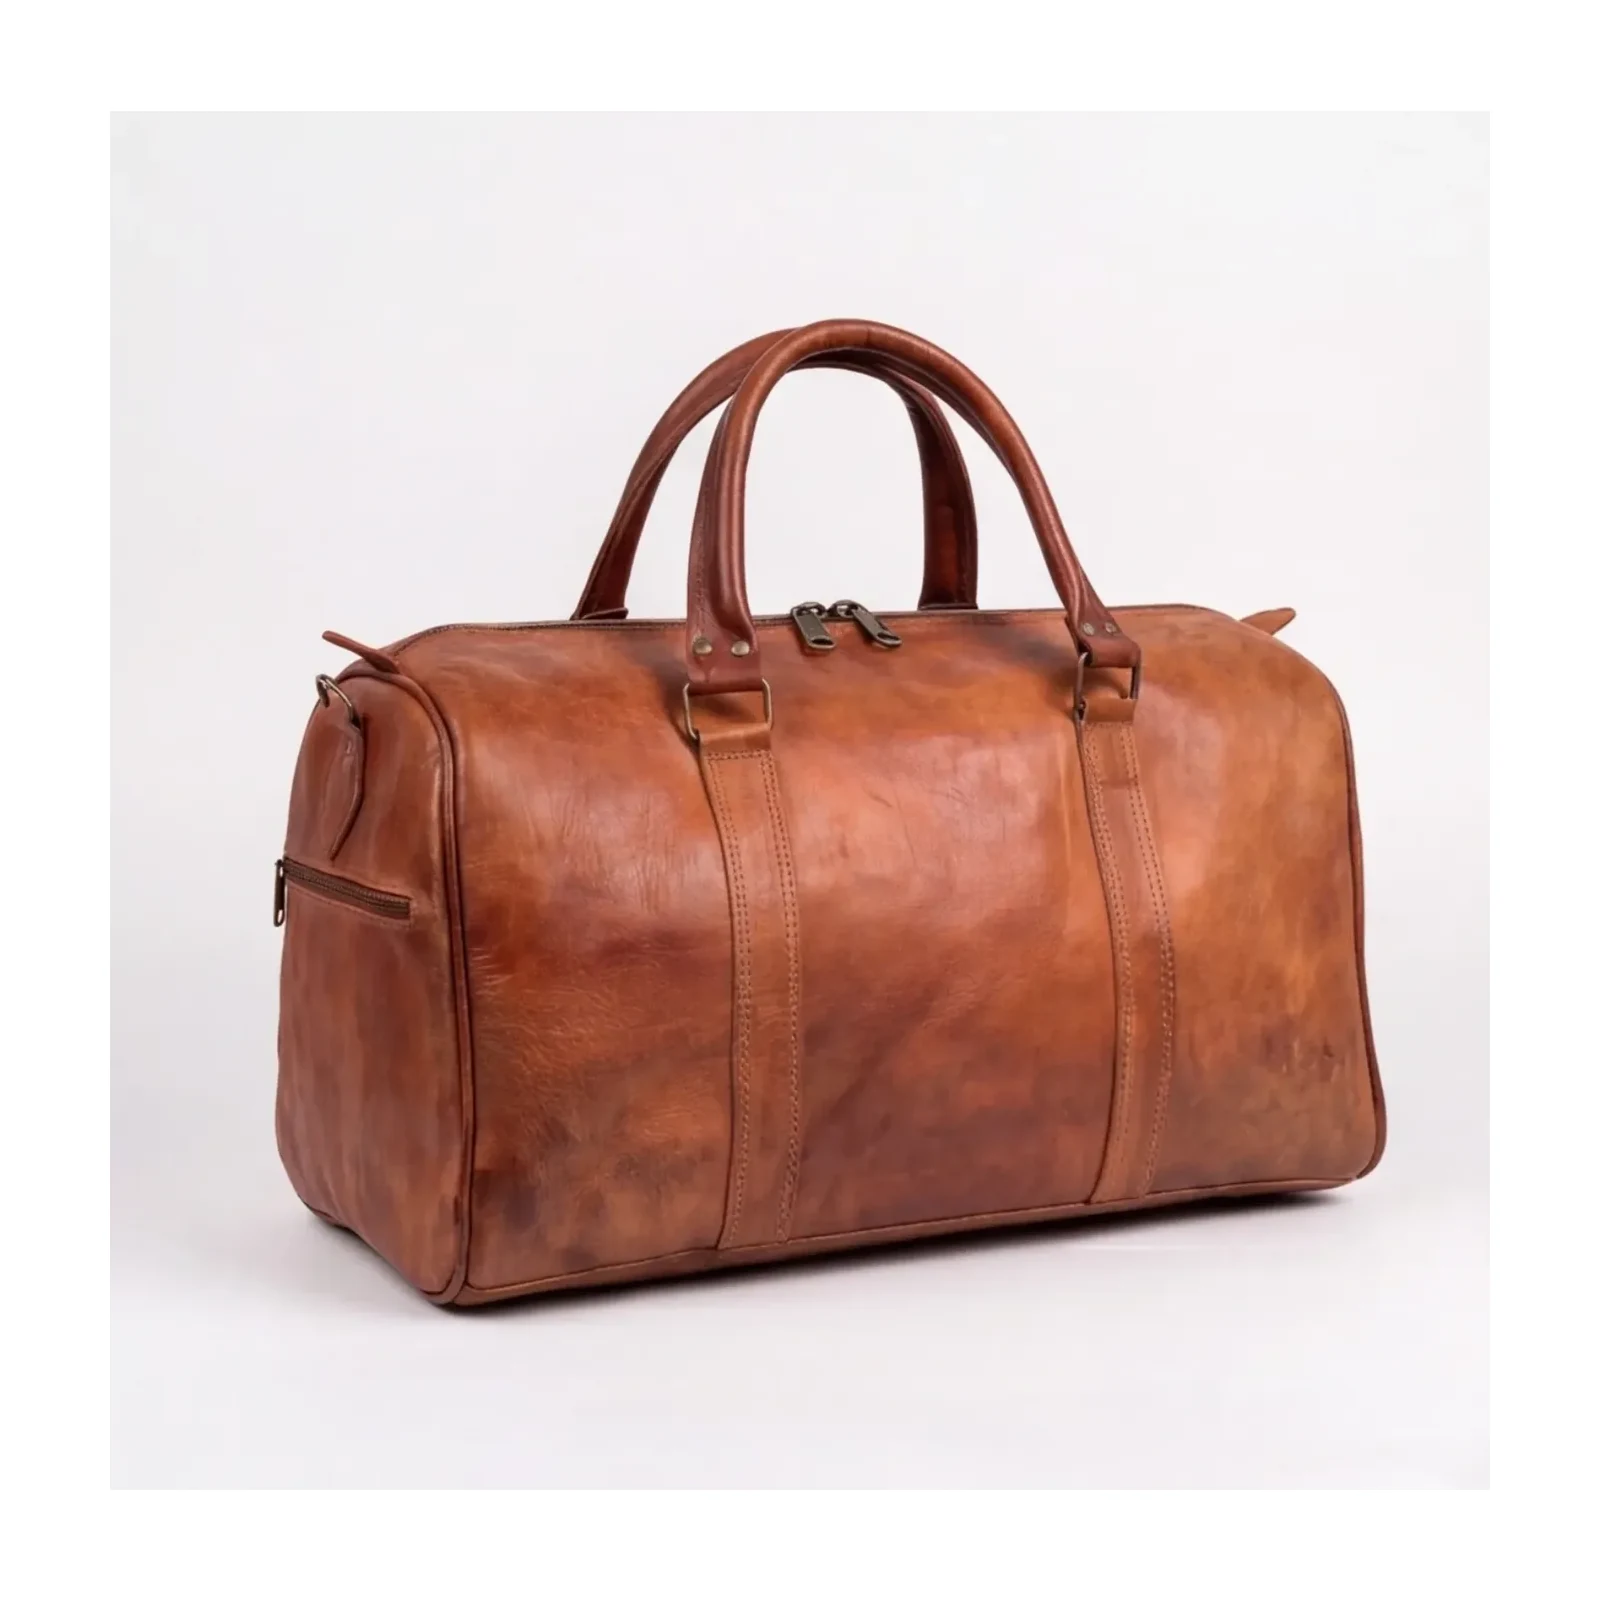
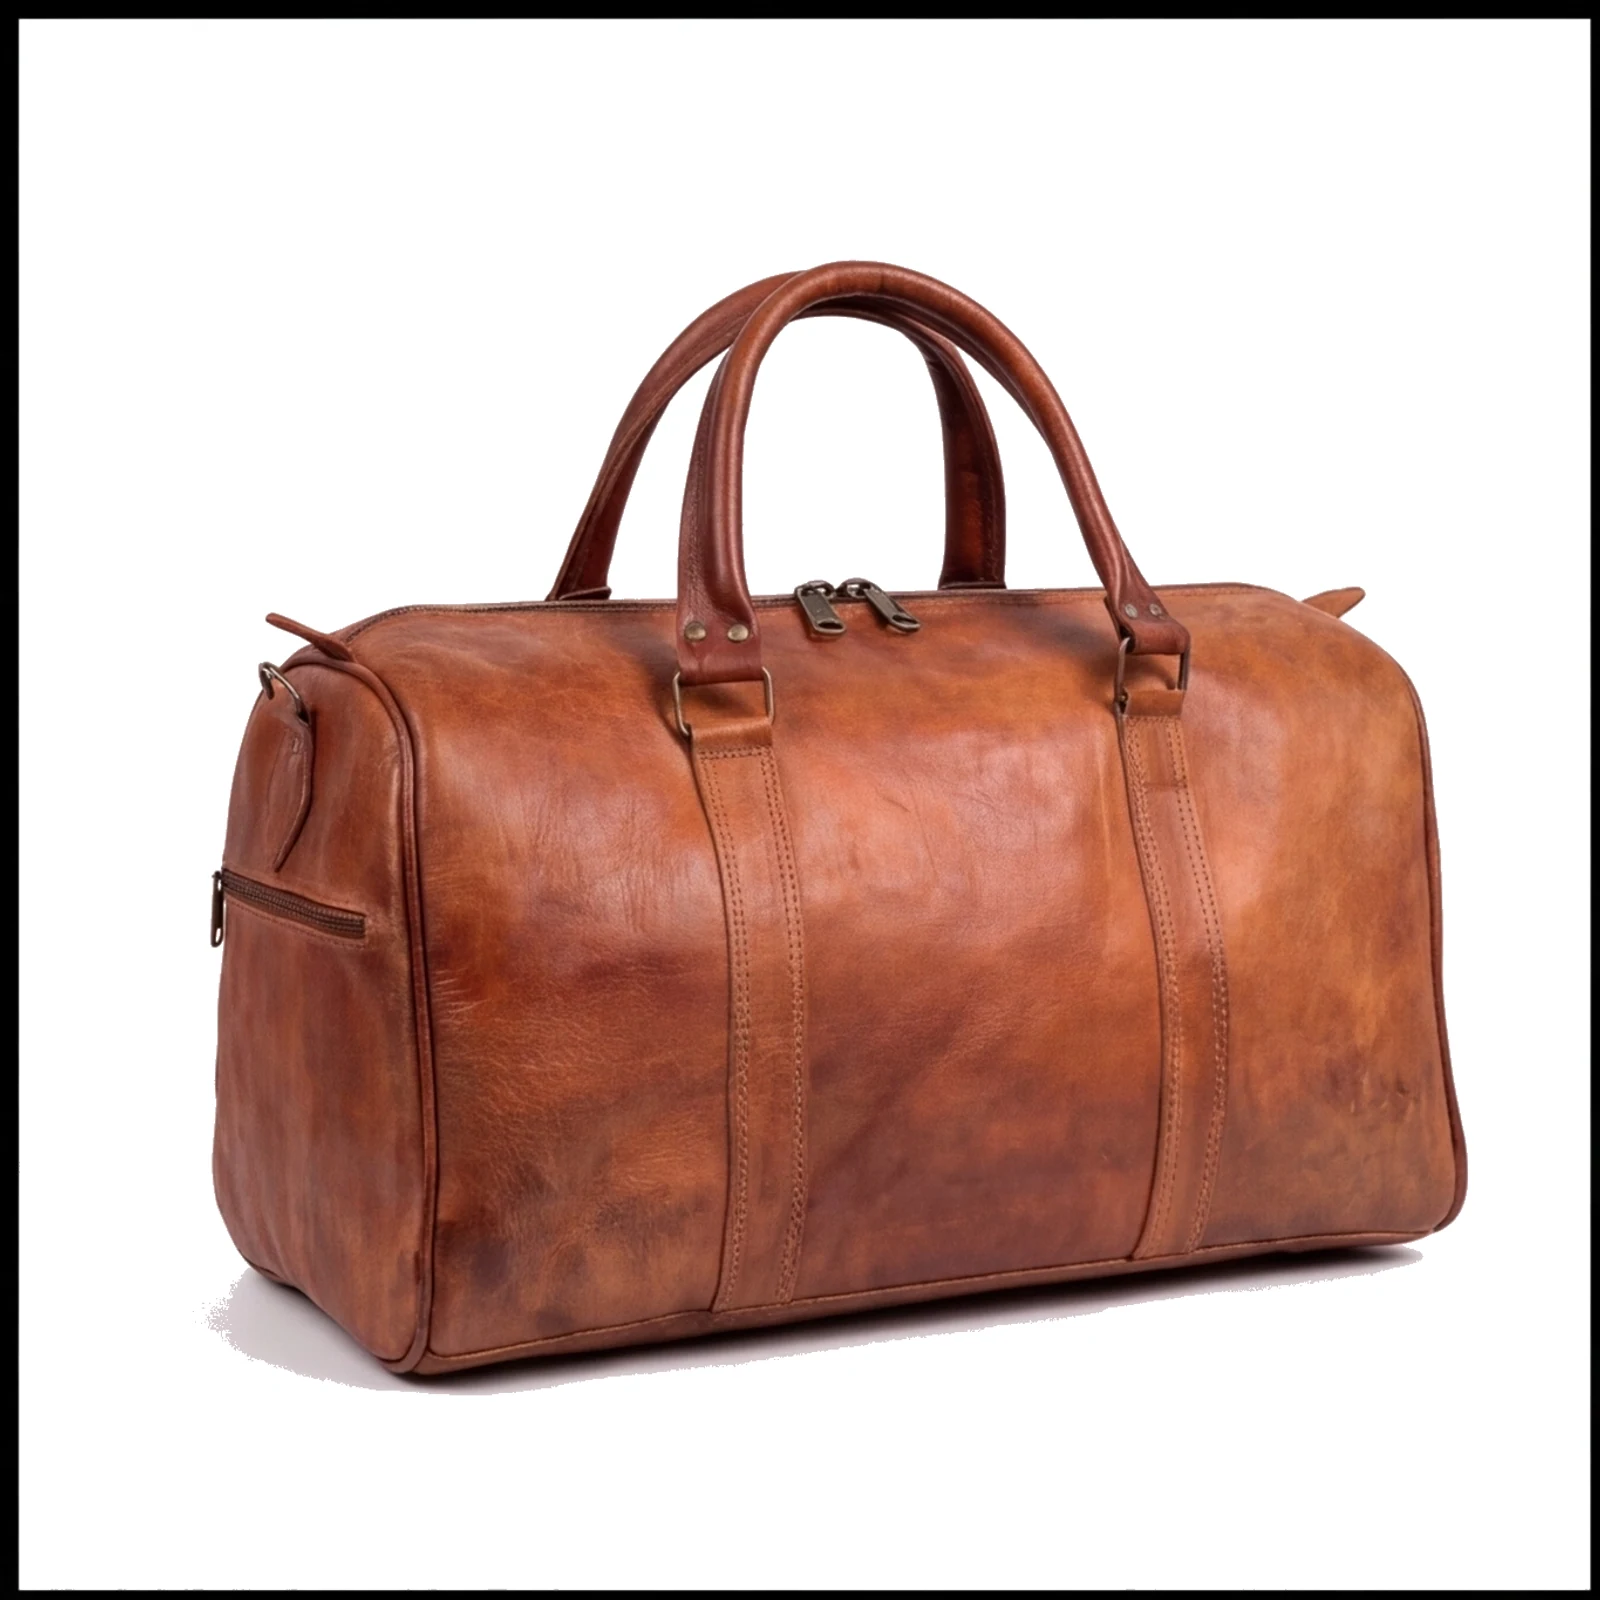
fix: clean launch product media and hide duplicate duffle

diff --git a/lib/products.ts b/lib/products.ts
@@ -246,10 +246,15 @@ export const STATIC_PRODUCTS: Product[] = [
     "slug": "classic-cognac-satchel",
     "price": 28500,
     "images": [
-      "https://xbtabpurfavngwmwtawc.supabase.co/storage/v1/object/public/products/drop-01/classic-cognac-satchel-pdp-white.webp",
-      "https://xbtabpurfavngwmwtawc.supabase.co/storage/v1/object/public/products/drop-01/classic-cognac-satchel-archive-1.webp",
-      "https://xbtabpurfavngwmwtawc.supabase.co/storage/v1/object/public/products/drop-01/classic-cognac-satchel-archive-2.webp",
-      "https://xbtabpurfavngwmwtawc.supabase.co/storage/v1/object/public/products/drop-01/classic-cognac-satchel-archive-3.webp"
+      "https://xbtabpurfavngwmwtawc.supabase.co/storage/v1/object/public/products/drop-02/classic-cognac-satchel-pdp-white.webp",
+      "https://xbtabpurfavngwmwtawc.supabase.co/storage/v1/object/public/products/drop-02/classic-cognac-satchel-pdp-02.webp",
+      "https://xbtabpurfavngwmwtawc.supabase.co/storage/v1/object/public/products/drop-02/classic-cognac-satchel-pdp-03.webp",
+      "https://xbtabpurfavngwmwtawc.supabase.co/storage/v1/object/public/products/drop-02/classic-cognac-satchel-pdp-04.webp",
+      "https://xbtabpurfavngwmwtawc.supabase.co/storage/v1/object/public/products/drop-02/classic-cognac-satchel-pdp-05.webp",
+      "https://xbtabpurfavngwmwtawc.supabase.co/storage/v1/object/public/products/drop-02/classic-cognac-satchel-pdp-06.webp",
+      "https://xbtabpurfavngwmwtawc.supabase.co/storage/v1/object/public/products/drop-02/classic-cognac-satchel-pdp-07.webp",
+      "https://xbtabpurfavngwmwtawc.supabase.co/storage/v1/object/public/products/drop-02/classic-cognac-satchel-pdp-08.webp",
+      "https://xbtabpurfavngwmwtawc.supabase.co/storage/v1/object/public/products/drop-02/classic-cognac-satchel-pdp-09.webp"
     ],
     "category": "Satchel",
     "status": "available",
@@ -582,8 +587,8 @@ export const STATIC_PRODUCTS: Product[] = [
       "https://xbtabpurfavngwmwtawc.supabase.co/storage/v1/object/public/products/drop-02/medina-duffle-pdp-02.webp"
     ],
     "category": "Duffle",
-    "status": "available",
-    "featured": true,
+    "status": "reserved",
+    "featured": false,
     "materials": [
       "Full-grain Moroccan leather",
       "Solid brass zipper and hardware",

diff --git a/lib/hidden-skus.ts b/lib/hidden-skus.ts
@@ -29,6 +29,9 @@ export const HIDDEN_SKUS: ReadonlySet<string> = new Set([
   "marrakech-tote-bordeaux",
   "marrakech-tote-noir",
   "medina-crossbody-tassel",
+  // Duplicate/scope suppression: the patterned leather + textile duffle belongs
+  // to the Kilim family, so keep this duplicate commercial SKU off launch.
+  "medina-duffle",
 
   // Group B — only macro shots in Storage, no canonical hero. Macros are
   // gallery-only per Turbo's convention; audit rejects them as images[0].

diff --git a/lib/landing-product-curation.ts b/lib/landing-product-curation.ts
@@ -6,7 +6,6 @@ const LANDING_FEATURED_ORDER = [
   "medina-saddlebag-tooled-cognac",
   "expedition-rolltop-noir",
   "atlas-kilim-duffle",
-  "medina-duffle",
   "marrakech-tote-cognac",
 ];
 
@@ -21,7 +20,6 @@ const LIST_IMAGE_OVERRIDES: Record<string, string> = {
   "medina-saddlebag-tooled-cognac": "/products/landing/medina-saddlebag-tooled-cognac-landing.webp",
   "expedition-rolltop-noir": "/products/landing/expedition-rolltop-noir-landing.webp",
   "atlas-kilim-duffle": "/products/landing/atlas-kilim-duffle-landing.webp",
-  "medina-duffle": "/products/landing/medina-duffle-landing.webp",
   "expedition-rolltop-cognac": "expedition-rolltop-cognac-pdp-05.webp",
 };
 

diff --git a/scripts/audit-launch-readiness.ts b/scripts/audit-launch-readiness.ts
@@ -62,7 +62,7 @@ async function main() {
   console.log("\n=== Remaining known non-blocking launch gaps ===");
   console.log("- Launch scope is bags and small leather goods only; no clothes/jackets.");
   console.log(
-    "- Media ops only: archive exact source folders for black-stitched-backpack and classic-cognac-satchel when found; no HF generation required for launch.",
+    "- Media ops only: archive the exact source folder for black-stitched-backpack when found; no HF generation required for launch.",
   );
 
   if (failures.length > 0) {

diff --git a/scripts/audit-public-site.ts b/scripts/audit-public-site.ts
@@ -21,6 +21,7 @@ const HIDDEN_PRODUCT_ROUTES = [
   "/products/marrakech-tote-bordeaux",
   "/products/marrakech-tote-noir",
   "/products/medina-crossbody-tassel",
+  "/products/medina-duffle",
   "/products/explorer-rolltop-noir",
 ];
 
@@ -39,6 +40,7 @@ const BAD_PUBLIC_PATTERNS = [
   /marrakech-tote-bordeaux/i,
   /marrakech-tote-noir/i,
   /medina-crossbody-tassel/i,
+  /medina-duffle/i,
   /explorer-rolltop-noir/i,
   /jacket|outerwear|clothes|clothing|wearables/i,
   /Tannerie Chouara/i,

diff --git a/scripts/audit-drive-product-sets.ts b/scripts/audit-drive-product-sets.ts
@@ -22,7 +22,6 @@ const NEEDS_FINISHED_HF_EXPORT = new Set([
 
 const LIVE_GALLERY_ACCEPTABLE = new Set([
   "black-stitched-backpack",
-  "classic-cognac-satchel",
 ]);
 
 type FolderEvidence = {